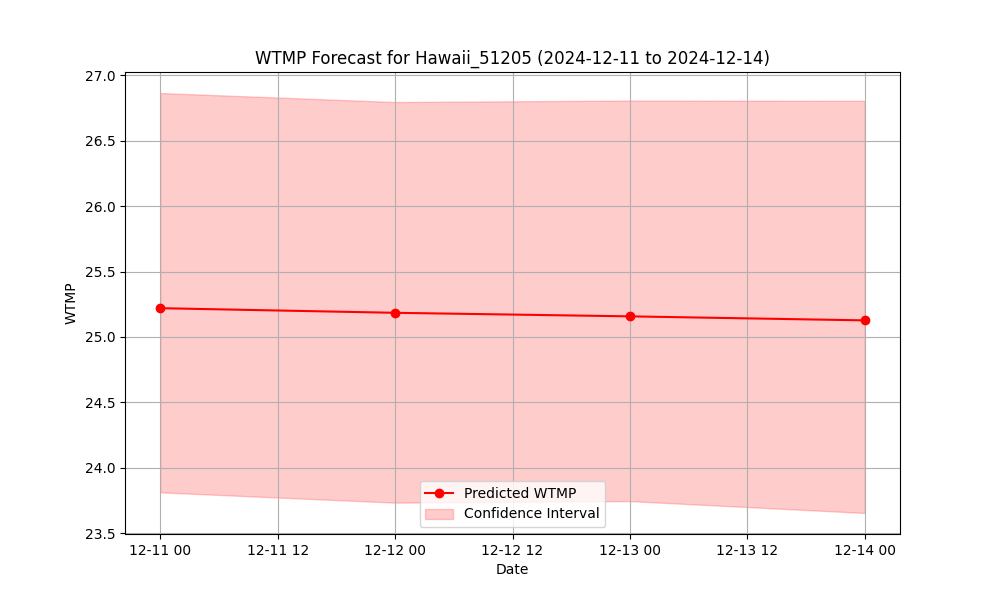
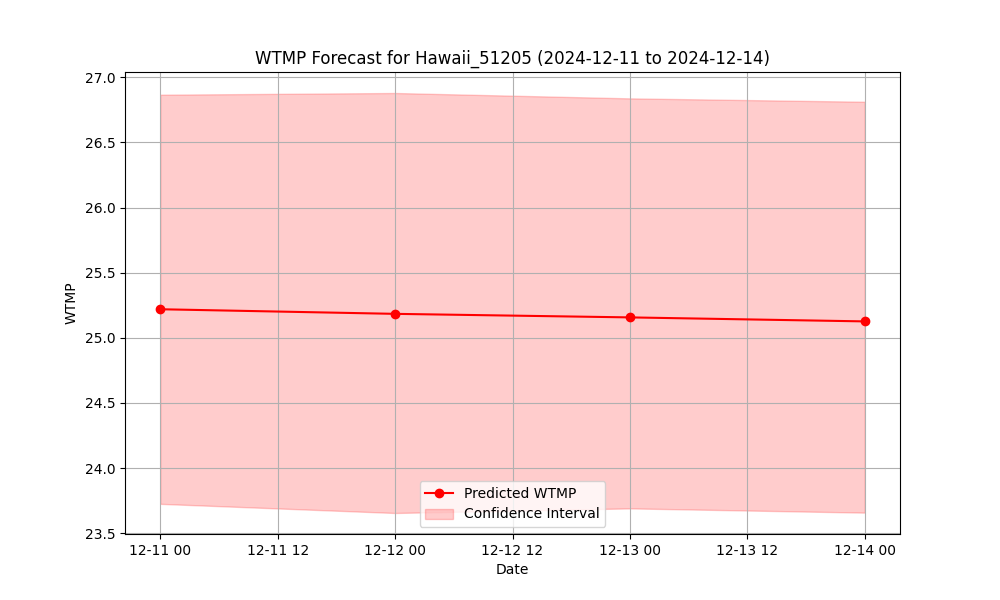
visualization good up to the end of 2025

diff --git a/Web/app.py b/Web/app.py
@@ -44,7 +44,12 @@ def get_predictions():
             raise ValueError("Dataset does not have the required columns.")
 
         # Convert `ds` to full_date in the main dataset
-        data['full_date'] = pd.to_datetime("2024-" + data['ds'], format="%Y-%m-%d")
+        current_year = datetime.now().year
+        data['full_date'] = pd.to_datetime(f"{current_year}-" + data['ds'], format="%Y-%m-%d")
+
+        if start_date.year > current_year or end_date.year > current_year:
+            next_year = current_year + 1
+            data['full_date'] = pd.to_datetime(f"{next_year}-" + data['ds'], format="%Y-%m-%d")
 
         # Filter data for the selected date range
         vacation_data = data[

diff --git a/Web/make_images.py b/Web/make_images.py
@@ -1,7 +1,5 @@
 import pandas as pd
 from prophet import Prophet
-import matplotlib
-matplotlib.use('Agg')
 import matplotlib.pyplot as plt
 import os
 
@@ -59,7 +57,7 @@ def make_images(input_file, location_name, start_date, end_date, output_dir="sta
     wtmp_model = Prophet(yearly_seasonality=True, interval_width=0.90)
     wtmp_model.fit(train_wtmp)
 
-    future_wtmp = wtmp_model.make_future_dataframe(periods=(end_date - train_wtmp['ds'].max()).days)
+    future_wtmp = wtmp_model.make_future_dataframe(2*365)
     wtmp_forecast = wtmp_model.predict(future_wtmp)
 
     # Filter predictions for the specified date range
